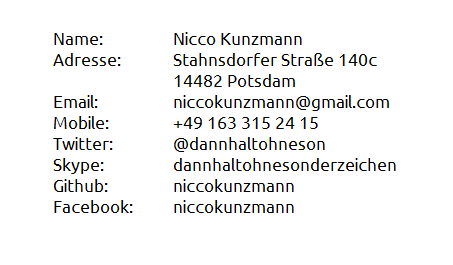
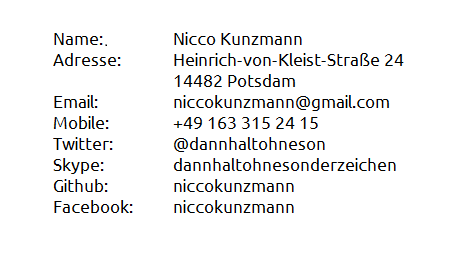
added posts and changed impressum

Changed region(s): [[0.3709, 0.1811, 0.8962, 0.2717]]

diff --git a/_layouts/overview.html b/_layouts/overview.html
@@ -1,5 +1,5 @@
 <!DOCTYPE html>
-<html {% if page.language %}lang="{{ page.language }}"{% endif %}>
+<html {% if page.language %}lang="{{ page.language | escape }}"{% endif %}>
   <head>
     <meta charset="UTF-8">
     <meta name="viewport" content="width=device-width, initial-scale=1">

diff --git a/stylesheets/footer.css b/stylesheets/footer.css
@@ -2,7 +2,6 @@ footer {
   text-align: center;
   right: 0px;
   left: 0px;
-  top: 0px;
   border: 0px;
   box-shadow: 0px 1px 5px #989898;
   background-color: black;

diff --git a/essays/_posts/2016-09-15-Crowd-Leihe.md b/essays/_posts/2016-09-15-Crowd-Leihe.md
@@ -1,0 +1,67 @@
+---
+layout: post
+title: Crowd-Leihe
+language: de
+---
+
+Tom gesehen:
+- für Werkzeug
+- für Sportgeräte
+- Pfandsystem für Kurze Veranstaltungen
+- Bedenken:
+  - digitales system
+  - datenschutz, Kinder an System anmelden
+
+Hier wird ein Leih- und Verwaltungssystem für Ressourcen und Gegenstände
+beschrieben.
+
+Ziel ist es, dass jeder jedem geben kann, in unter 5 Sekunden
+
+- Generell
+  - alles offen
+  -> Lizenz!
+
+- man kann sich identifizieren
+  - Anmelden
+  - hat seinen Account
+  - eine Geschichte von Leihungen
+  - Ein Markdown-Freitextfeld
+  - Man ist durch andere Nutzer verifiziert
+    -> signaturen wären super, wie git, nur offline
+    -> QR-code scannen zum Übertragen der Signatur
+
+- Leihen:
+  - Man scannt die Inventarnummer
+  - der andere stimmt der Übergabe zu
+  - eventuell wird ein foto gemacht
+    - egal
+    - wäre gut - vorgabe vom Eigentümer
+  
+- Die Inventarnummer kann jeder für sich anlegen.
+  - Form: QR-Code, Text, Zahl, Scan-code, ISBN
+  - man bekommt eine kürzeste, freie Inventarnummer vorgeschlagen
+  - man kann gleich ganz viele bekommen
+  - Zeug ist unter crowd-leihe.de/i/<inventarnummer> erreichbar
+    - html
+    - json
+
+- Es gibt einen Eigentümer
+  - dieser verfolgt die Ware
+  - Eigentum kann übertragen werden
+  - Man kann sehen
+    - wer es hat und zurückfordern,
+    - sehen, über welche Personen man mit der anderen Verbunden ist.
+  
+- Waren verfolgen
+  - man kann sie gelistet angezeigt bekommen
+
+- Zeug
+  - hat ein foto
+  - hat eine ID=Inventarnummer
+  - eine Beschreibung
+  - die Beschreibung kann verändert werden
+
+Probleme:
+
+- zwei oder mehr Leute tauschen die selben breadboards miteinander  
+  -> herausfinden, ob beide dann neue Eigentümer werden können

diff --git a/essays/_posts/2016-09-02-Mediation-vs-who-is-right.md b/essays/_posts/2016-09-02-Mediation-vs-who-is-right.md
@@ -1,0 +1,38 @@
+who is right?
+
+---
+layout: post
+title: "How can we deal with this?" vs. "Who is right?"
+language: en
+---
+
+## Who is right?
+
+Is the question of who is right a question for authority?
+
+Suppose there is no objectivity.
+There might be agreeable facts but no objectivity.
+In fact, people do sometimes not agree about the obvious.
+They percieve situations differently.
+In a conflict, people may disagree with the obvious because agreeing can be an advantage for the opponent.
+
+What they tend to do when asking, "Who is right?", is go to court.
+Court is a third instance of authority which they both acknowledge.
+The court decides based on the law - a third party "Who is right?".
+If the third partie's "Who is right?" does not match one of the two parties "Who is right?", at least one party is not satisfied.
+
+If there is no such third party authority, there is no way to create such an accepted, maybe dissatisfying solution.
+
+## How do we deal with this conflict?
+
+Another question is "How do we deal with this conflict?" - We is the people who have the conflict.
+So, I just recently watched videos about mediation and it seems to be a process that allows both parties
+
+- to be incontrol of the process
+- to be in control of the outcome
+- to save money and stress (there is no third party which wants satisfactions like hearings)
+- to have an outcome with which they both want to live (not a next instance incourt)
+
+## Summary
+
+Even if there is a third party like the court, parties can turn to mediation to create a solution they both can live with.
